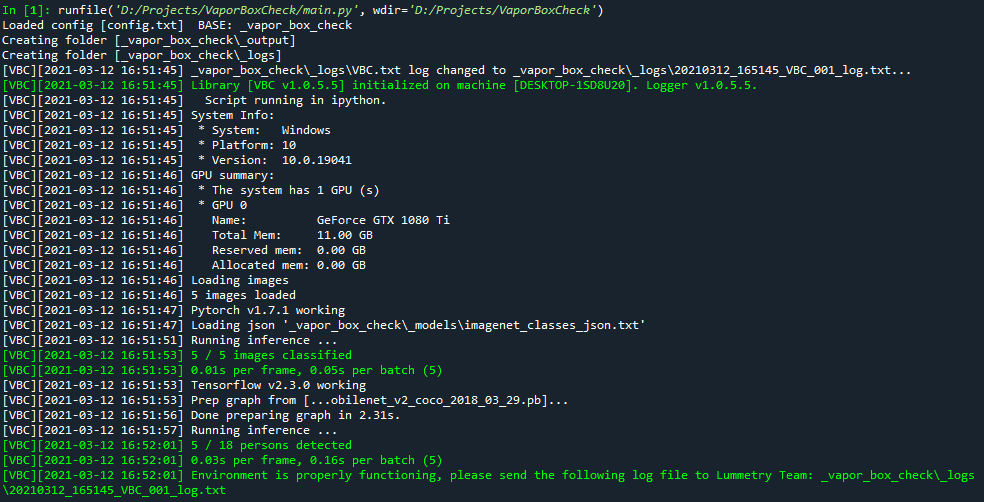
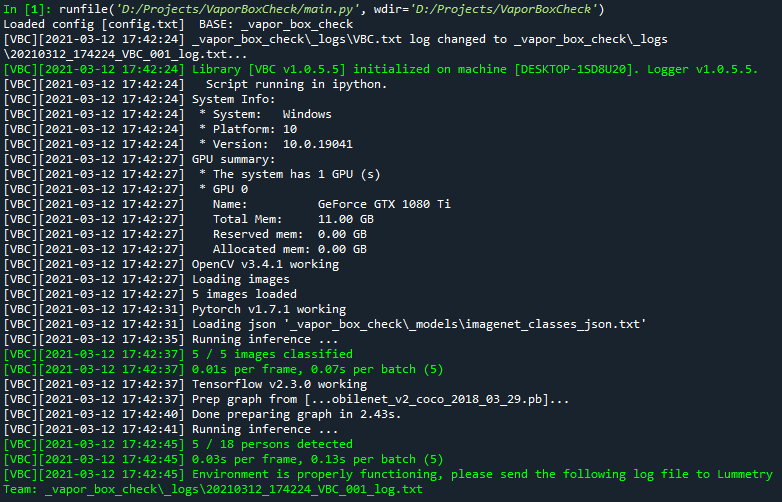
Checking opencv installation. Updating windows results.

Changed region(s): [[0.0, 0.0, 1.0, 0.9861]]

diff --git a/app.py b/app.py
@@ -22,7 +22,6 @@ Copyright 2019 Lummetry.AI (Knowledge Investment Group SRL). All Rights Reserved
 import os
 os.environ['TF_CPP_MIN_LOG_LEVEL'] = '2'
 
-import cv2
 import itertools
 import constants as ct
 
@@ -45,8 +44,7 @@ class VaporBoxCheck(LummetryObject):
   
   def startup(self):
     self.log.platform()
-    self.log.gpu_info()
-    self._load_images()
+    self.log.gpu_info()    
     self._cfg_inf = self.log.load_json('inference.txt', verbose=False)
     self._opencv_success = False
     self._pytorch_success = False
@@ -54,18 +52,22 @@ class VaporBoxCheck(LummetryObject):
     return
   
   def _load_images(self):
-    if self.DEBUG:
-      self.log.p('Loading images')
-    path_images = os.path.join(
-      self.log.get_data_folder(), 
-      self.config_data[ct.PATH_IMAGES]
-      )
-    lst_names = os.listdir(path_images)
-    lst_paths = [os.path.join(path_images, x) for x in lst_names]
-    lst_imgs = [cv2.imread(x) for x in lst_paths]
-    self.dct_imgs = dict(zip(lst_names, lst_imgs))
-    if self.DEBUG:
-      self.log.p('{} images loaded'.format(len(self.dct_imgs)))
+    try:
+      import cv2
+      if self.DEBUG:
+        self.log.p('Loading images')
+      path_images = os.path.join(
+        self.log.get_data_folder(), 
+        self.config_data[ct.PATH_IMAGES]
+        )
+      lst_names = os.listdir(path_images)
+      lst_paths = [os.path.join(path_images, x) for x in lst_names]
+      lst_imgs = [cv2.imread(x) for x in lst_paths]
+      self.dct_imgs = dict(zip(lst_names, lst_imgs))
+      if self.DEBUG:
+        self.log.p('{} images loaded'.format(len(self.dct_imgs)))
+    except:
+      self.log.p('Images could not be loaded', 'r')
     return
   
   def _run_pytorch(self):
@@ -188,6 +190,7 @@ class VaporBoxCheck(LummetryObject):
   
   def run(self):
     self._check_opencv()
+    self._load_images()
     self._run_pytorch()
     self._run_tensorflow()
     
